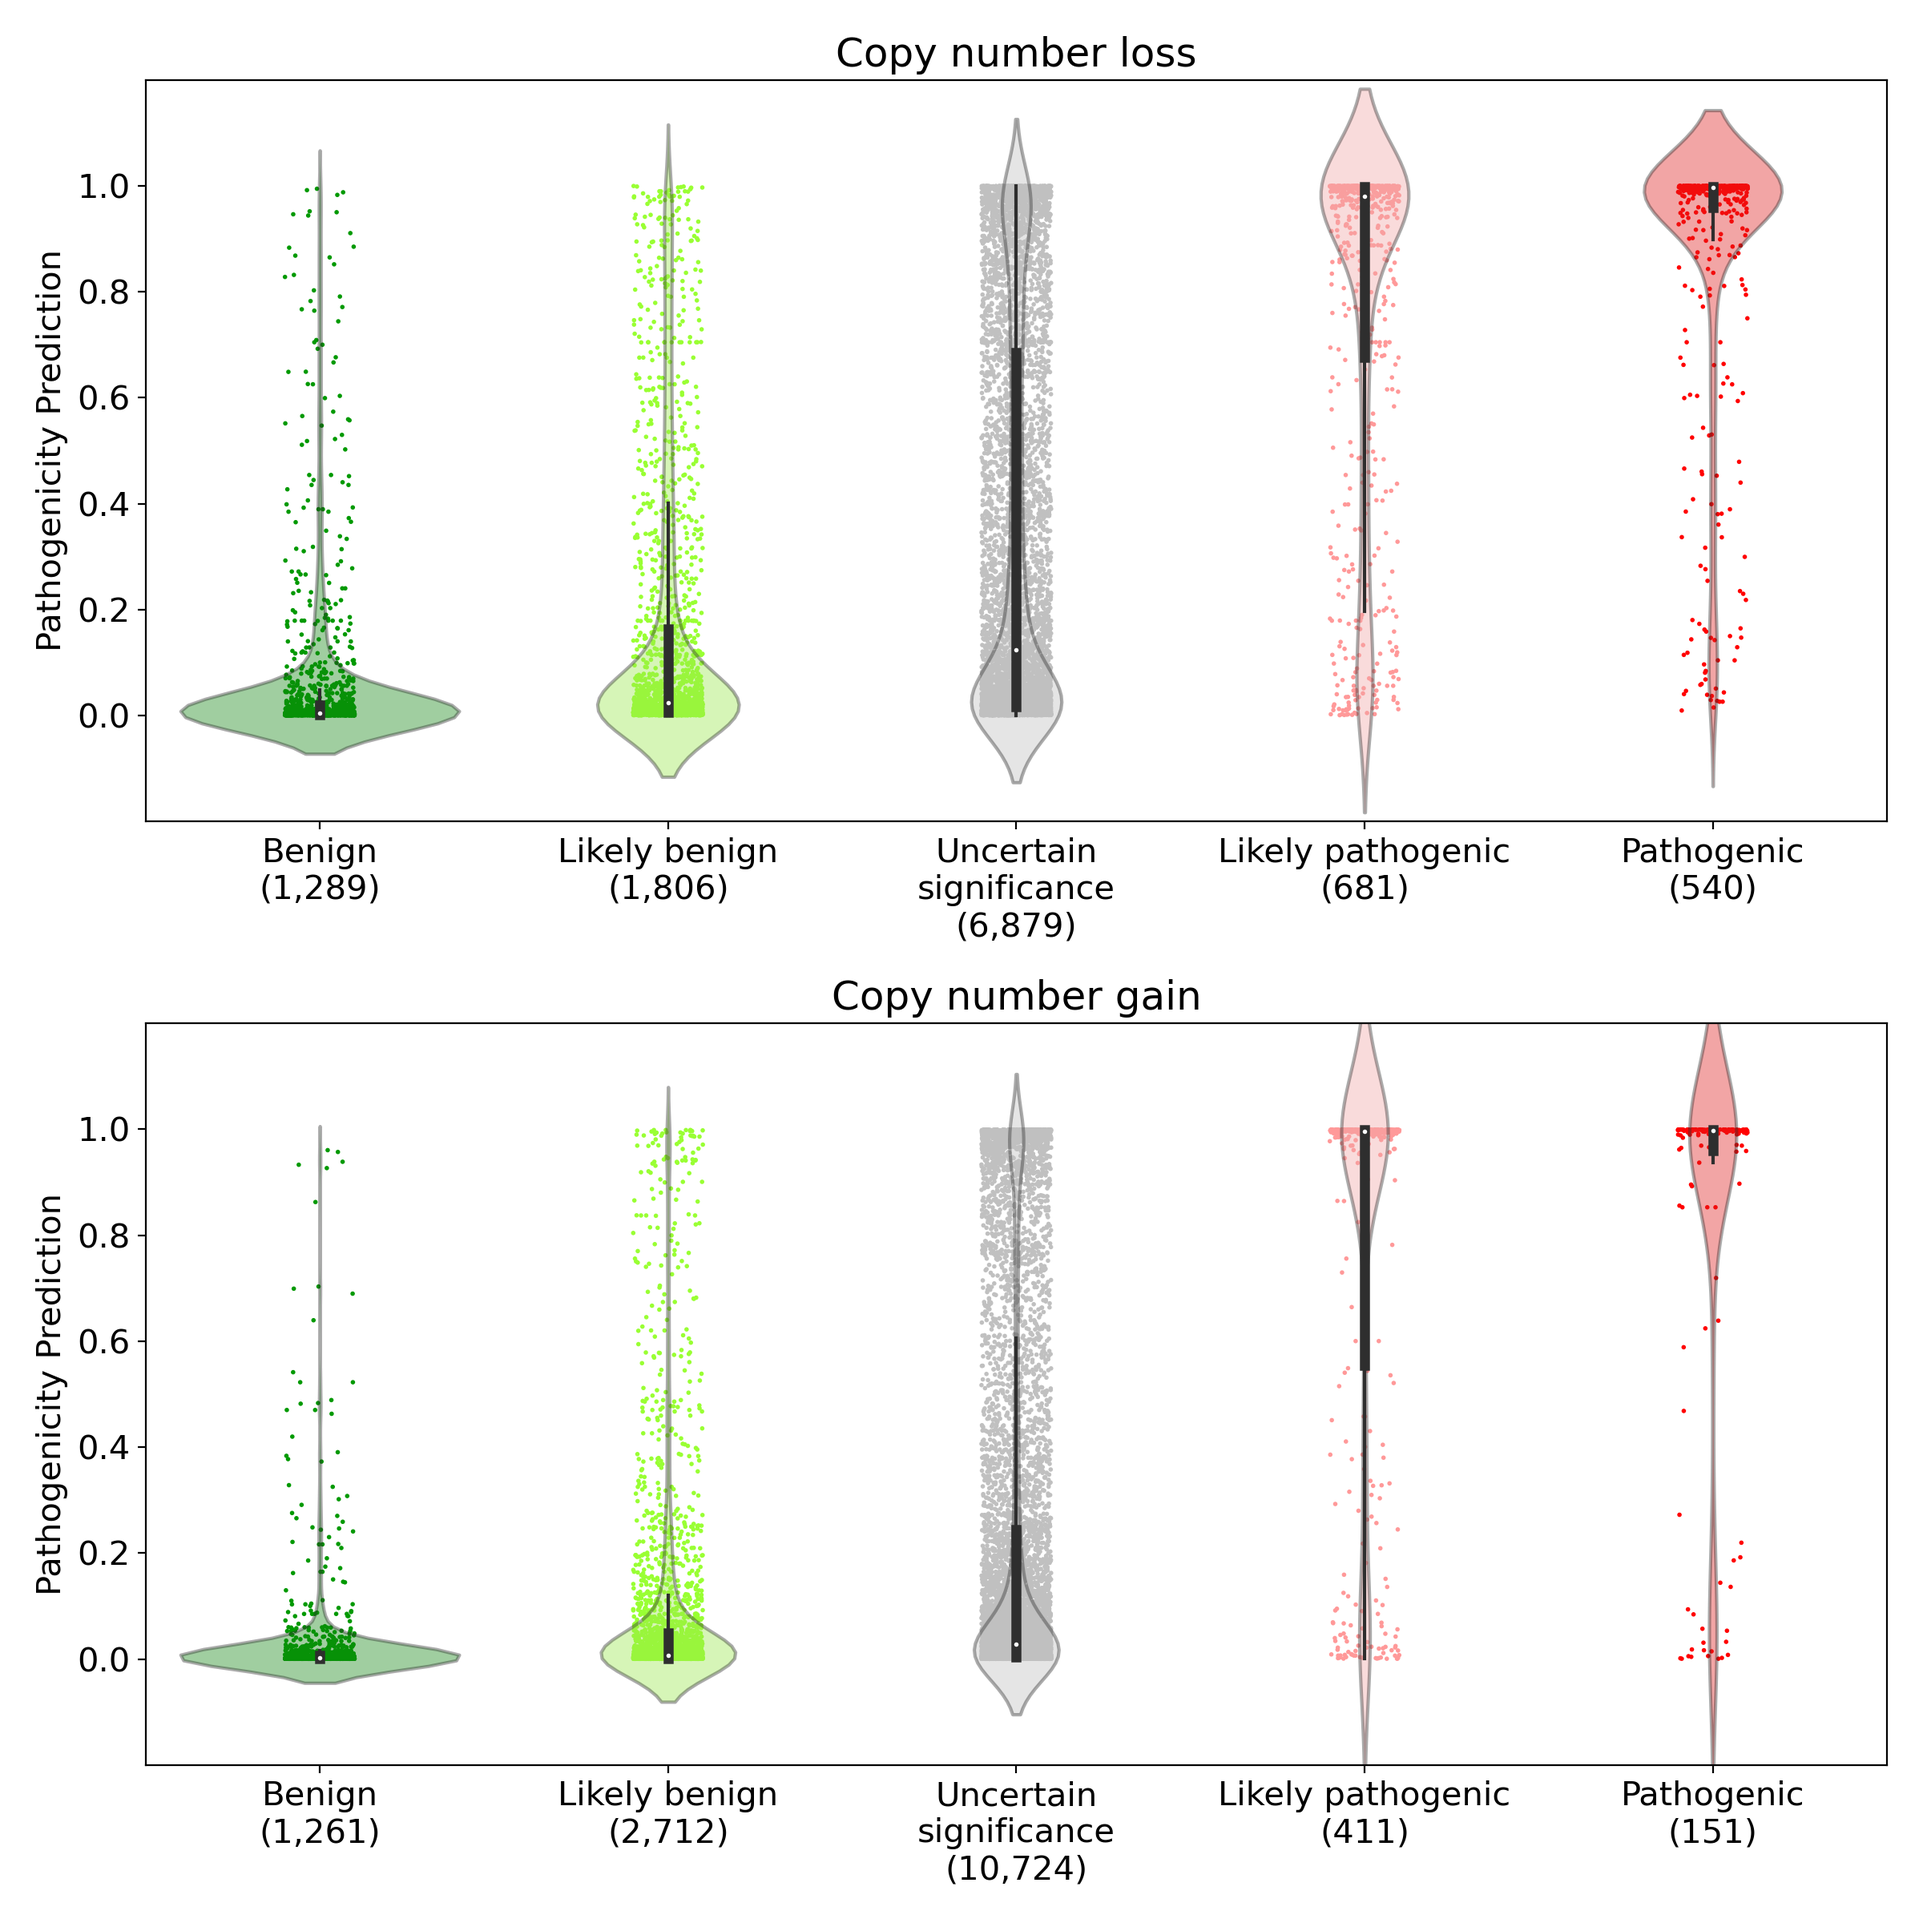
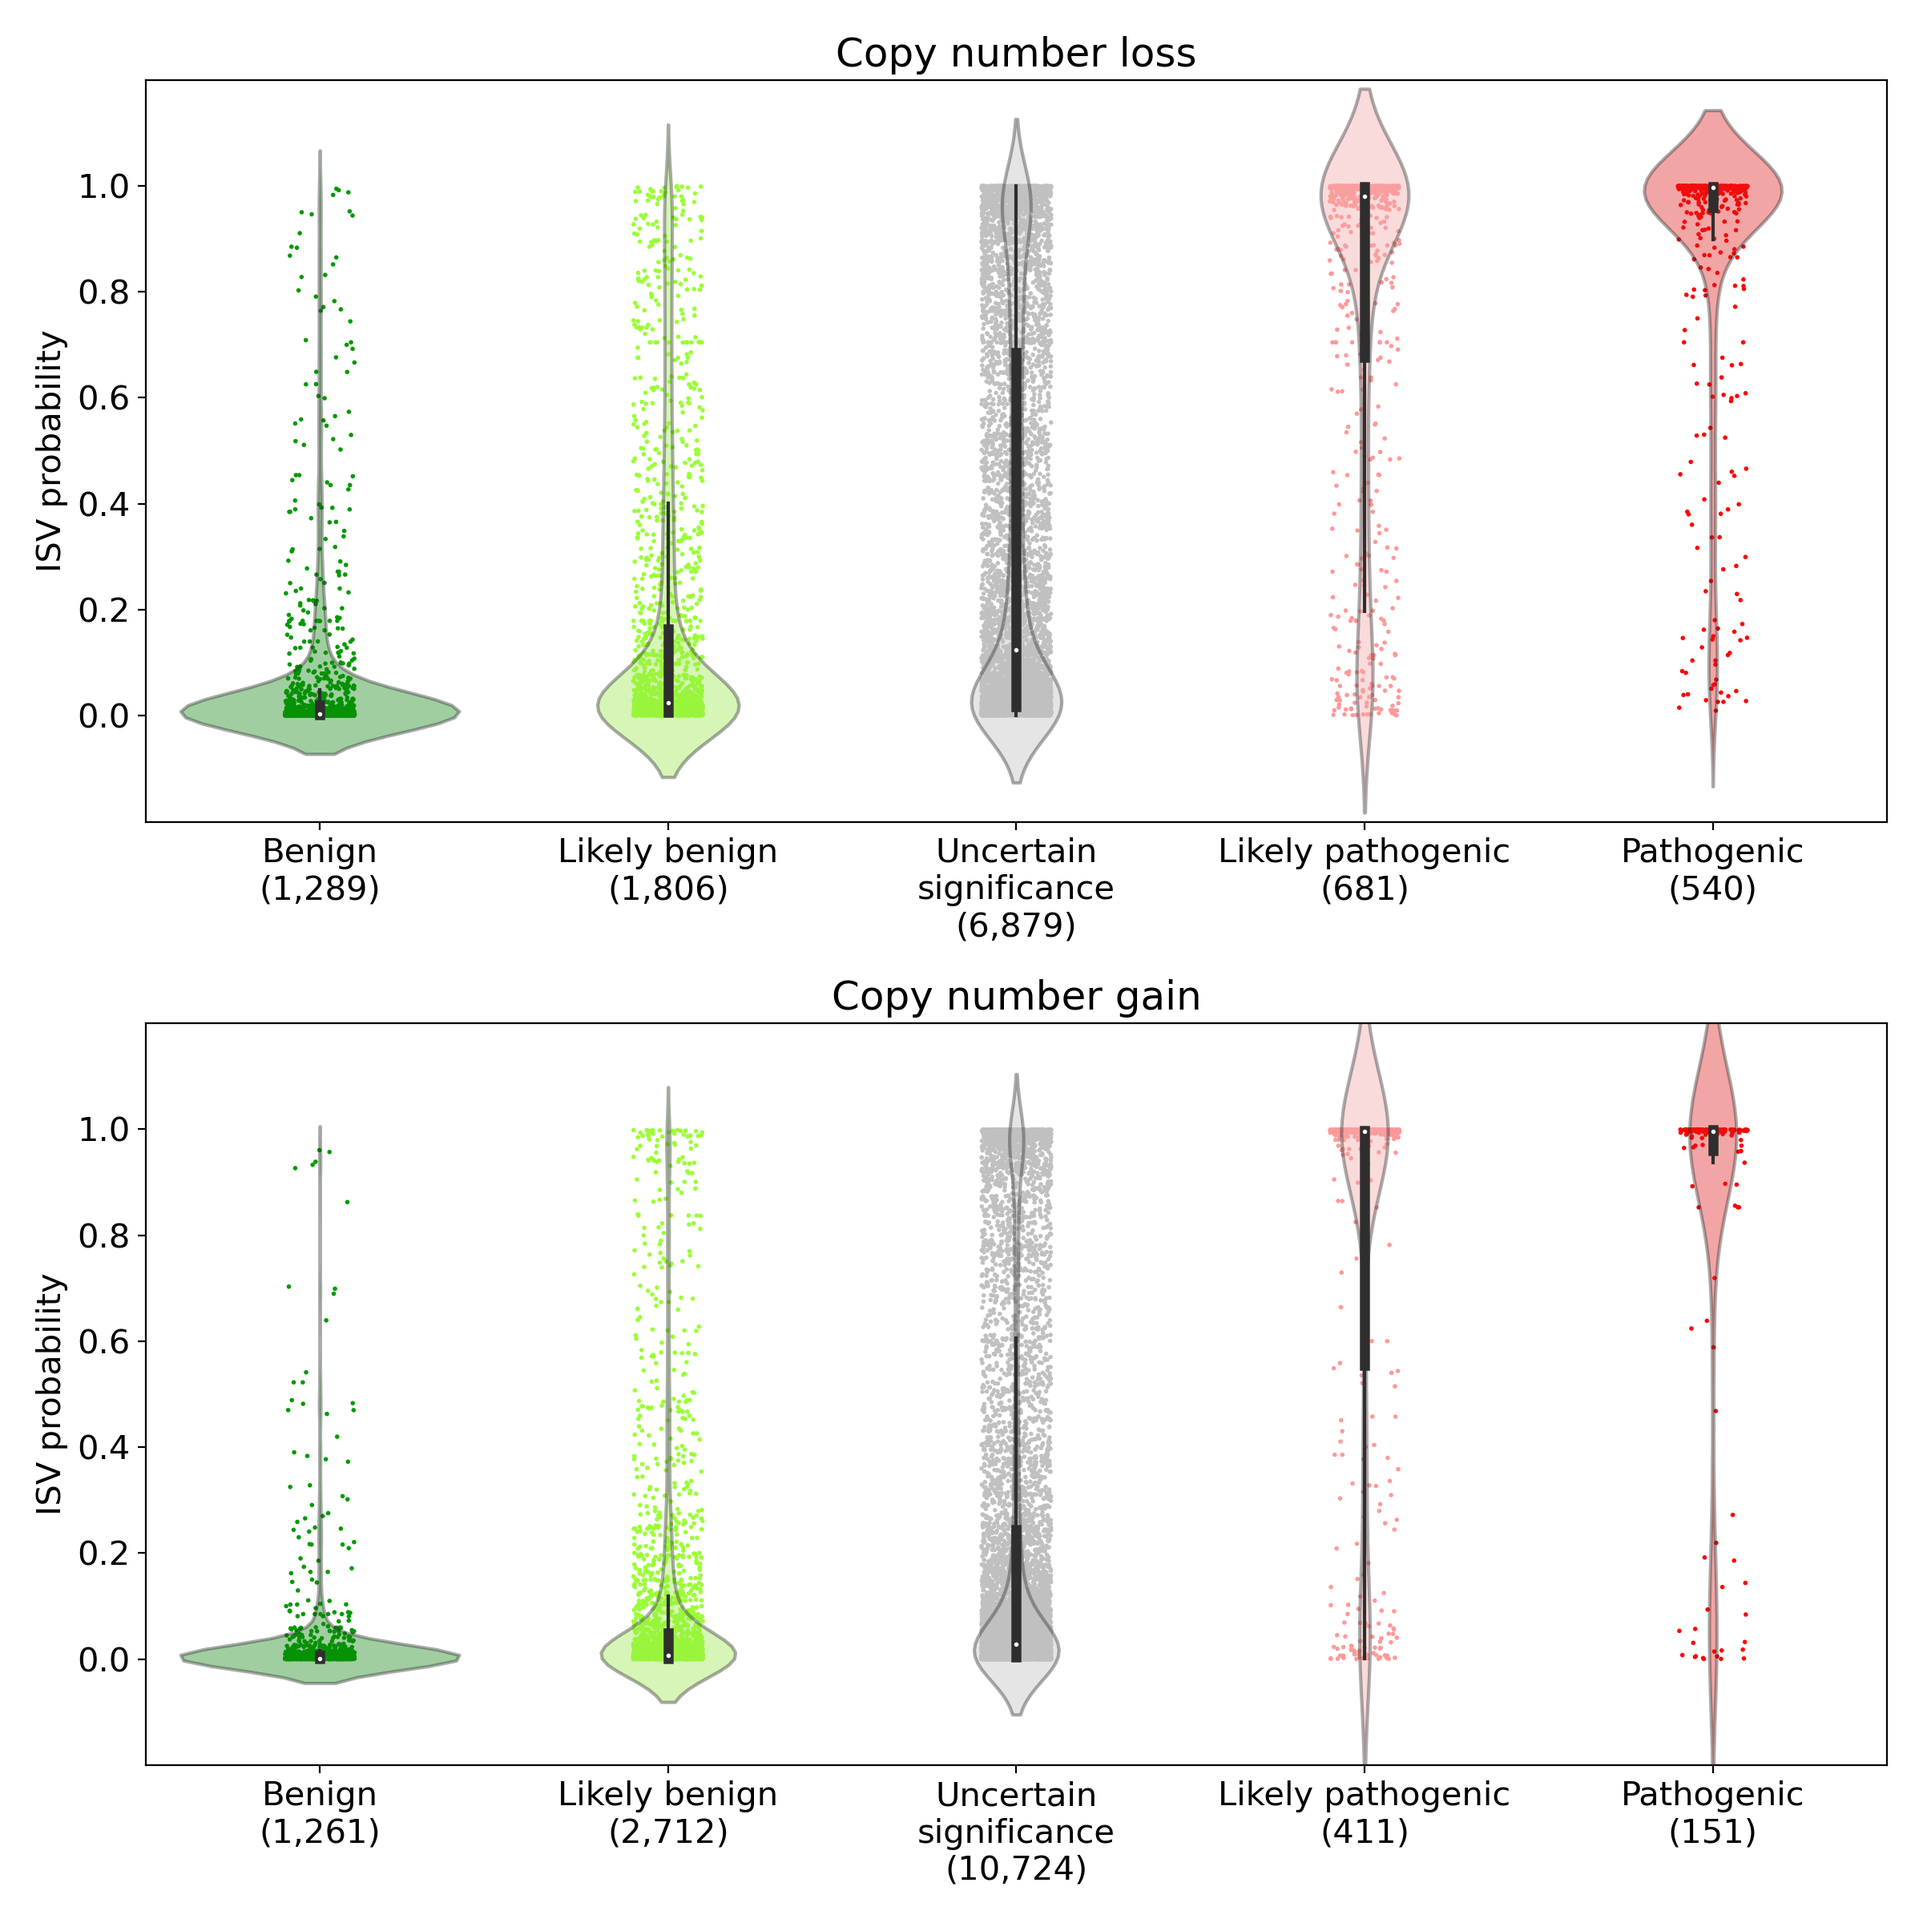
yaxis label in violins

diff --git a/scripts/plots/results_violins.py b/scripts/plots/results_violins.py
@@ -76,7 +76,7 @@ for i, cnv_type in enumerate(['loss', 'gain']):
         violin.set_alpha(0.4)
         
     ax[i].set_title(f'Copy number {cnv_type}')
-    ax[i].set_ylabel(f'Pathogenicity Prediction')
+    ax[i].set_ylabel(f'ISV probability')
     ax[i].set_xlabel('')
     
     ax[i].set_ylim(-0.2, 1.2)
